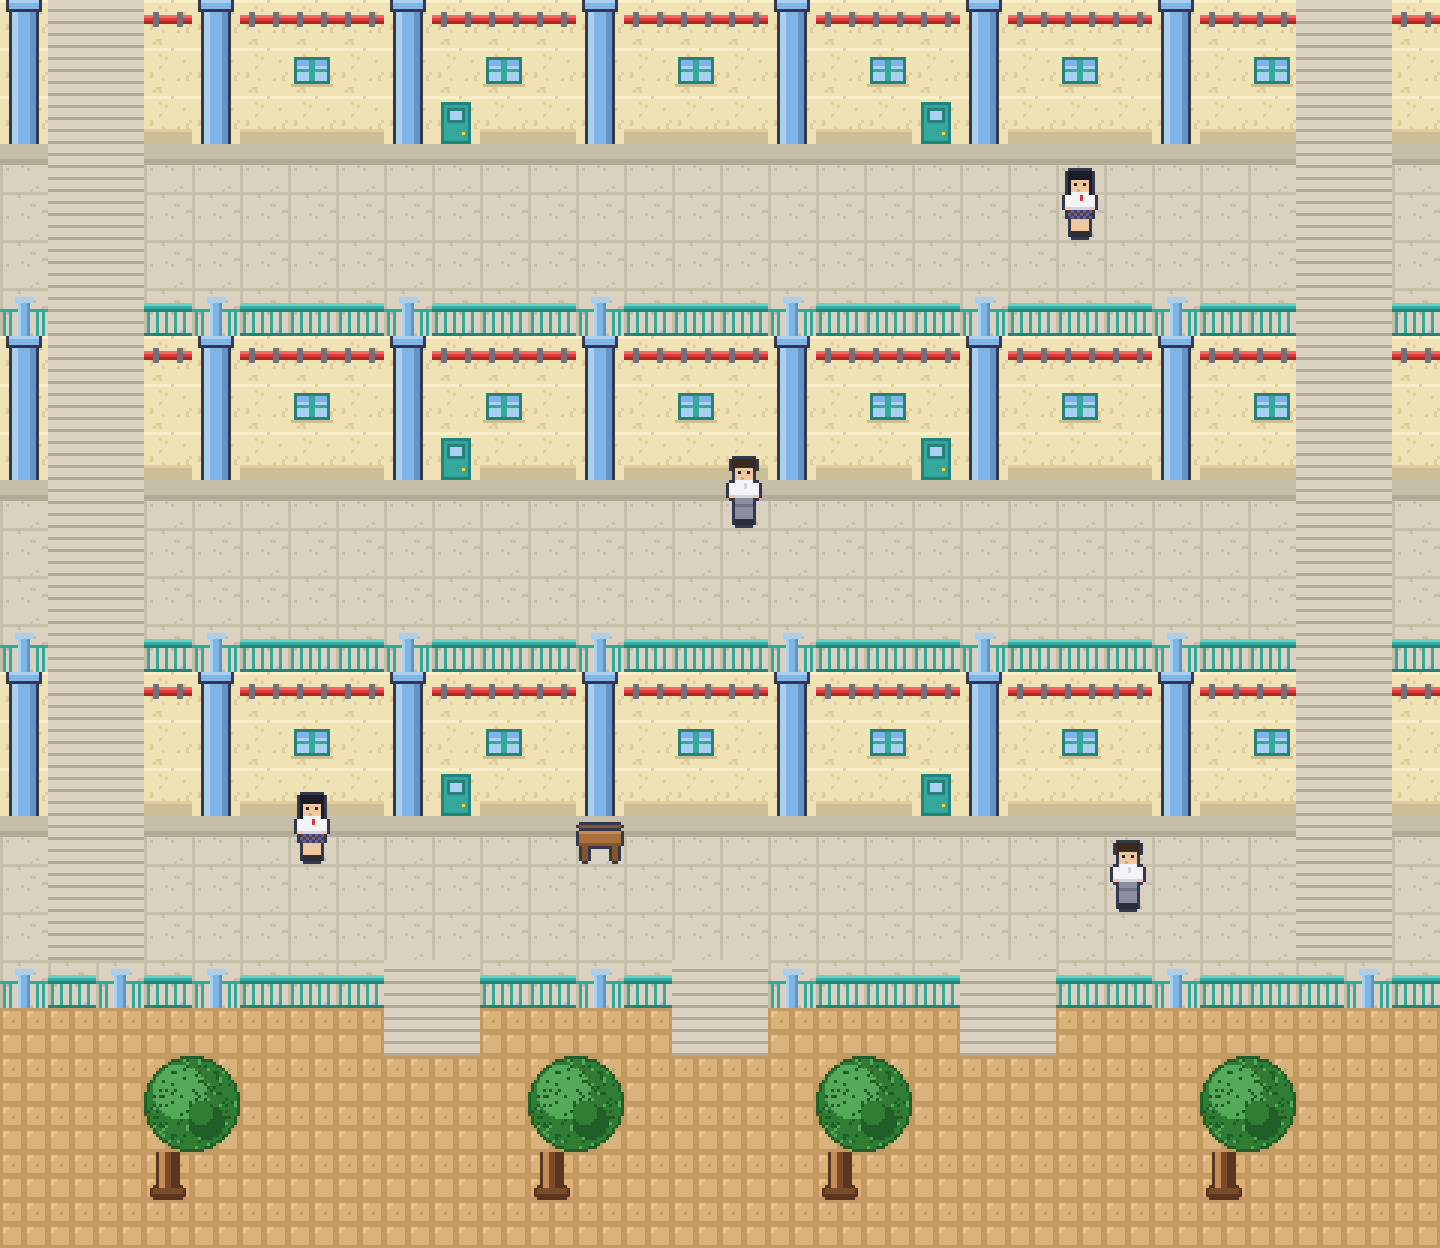
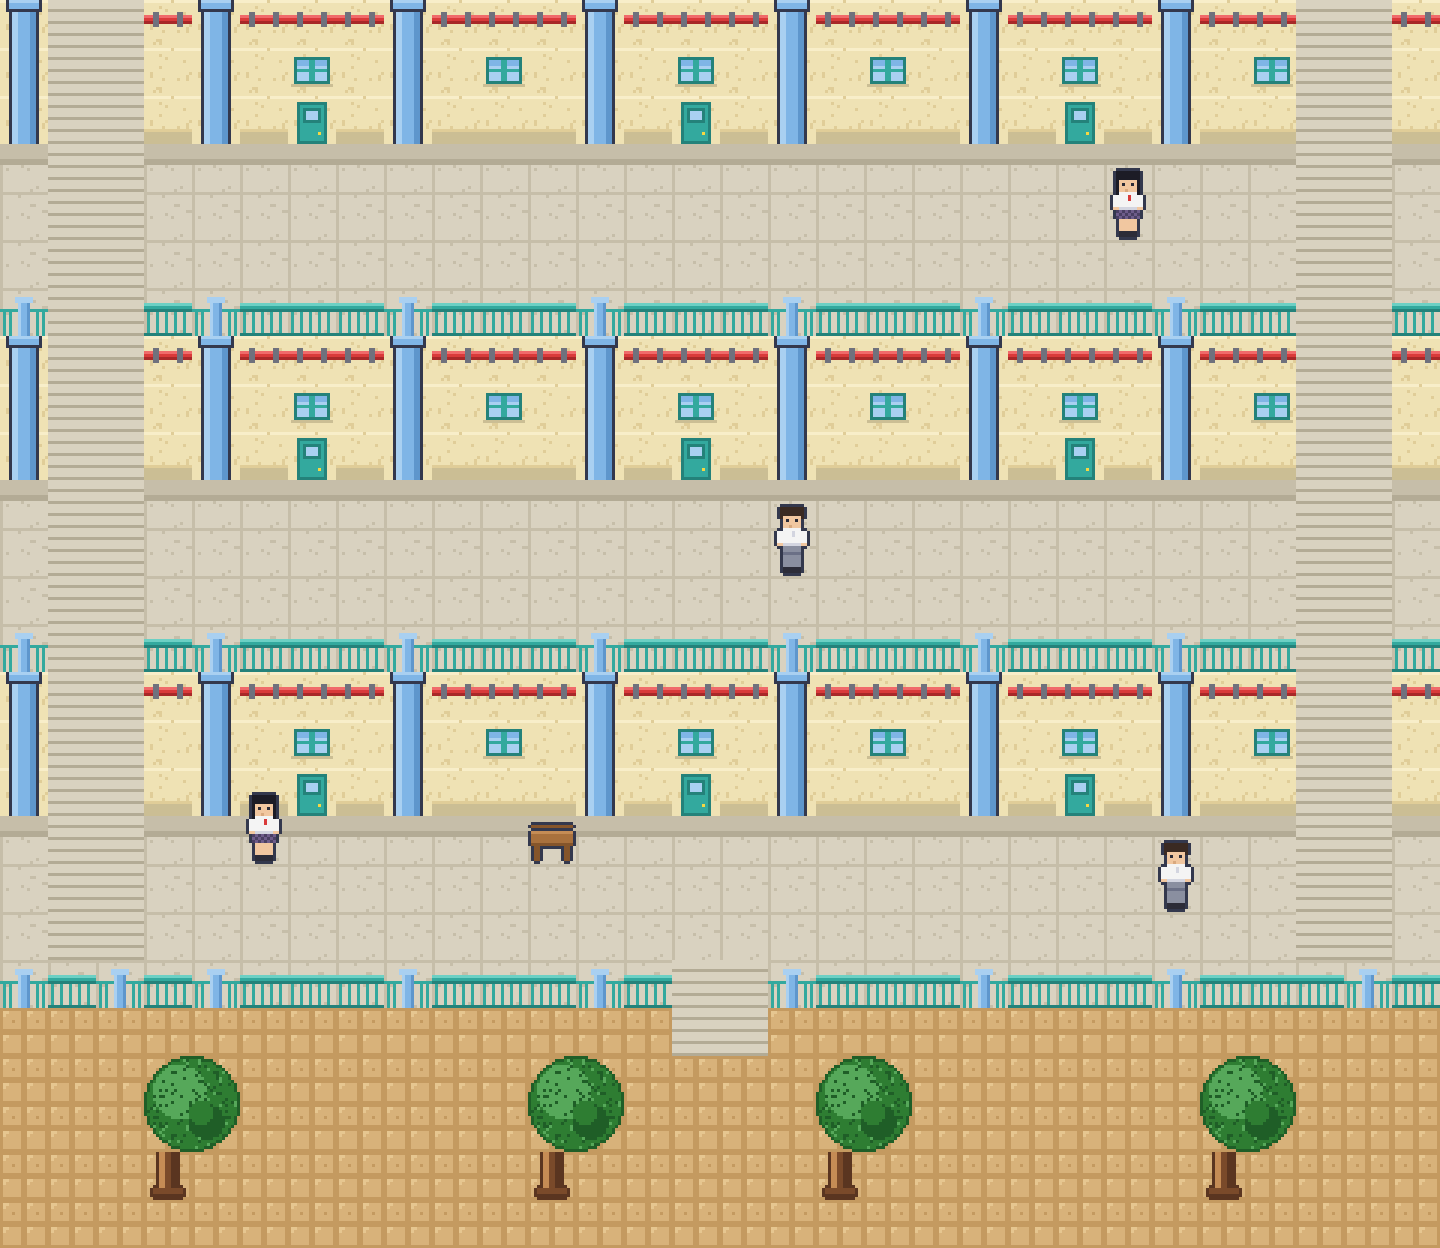
feat: thêm khu vực hanh-lang-lop-10 (3 tầng, 10C1–10C9), 2 cầu thang nam vào lớp 10; hành lang 12 chỉ còn cửa bắc, lớp 11B1–11B6; cập nhật spec, vision, dữ liệu

diff --git a/tools/gen-maps.ts b/tools/gen-maps.ts
@@ -171,8 +171,8 @@ function sanChinh(): MapBuilder {
 
   m.exit("to-cong-truong", 14, 21, 2, 1);
   m.exit("to-hanh-lang-bac", 14, 5, 2, 1);
-  m.exit("to-hanh-lang-nam-trai", 8, 17, 2, 1);
-  m.exit("to-hanh-lang-nam-phai", 20, 17, 2, 1);
+  m.exit("to-hanh-lang-10-trai", 8, 17, 2, 1);
+  m.exit("to-hanh-lang-10-phai", 20, 17, 2, 1);
   m.exit("to-san-the-chat", 0, 12, 1, 2);
 
   m.interact({ name: "khau-hieu", tx: 12, ty: 6, tw: 6, th: 1, kind: "text", text: "RÈN ĐỨC – LUYỆN TÀI" });
@@ -182,24 +182,27 @@ function sanChinh(): MapBuilder {
   return m;
 }
 
-// ---------- hanh-lang-lop-12 (30×26 ô) ----------
-// Một khu vực gồm 3 dải hành lang xếp chồng: tầng 3 (trên, lớp 11), tầng 2 (giữa, lớp 11),
-// tầng 1 (dưới, trệt, LỚP 12). Cầu thang ở hai đầu (x=1..2 và x=27..28) nối các tầng;
-// đi bộ để đổi tầng. Ba lối từ sân chính vào tầng 1; lối lên sân thượng ở đầu trên cầu thang phải.
-function hanhLang(): MapBuilder {
+// ---------- dãy hành lang 3 tầng (30×26 ô): hanh-lang-lop-12 và hanh-lang-lop-10 ----------
+// Một khu vực gồm 3 dải hành lang xếp chồng (tầng 3 trên, tầng 2 giữa, tầng 1 dưới/trệt), mỗi tầng 3 lớp.
+// Cầu thang ở hai đầu (x=1..2 và x=27..28) nối các tầng; đi bộ để đổi tầng.
+// Lối từ sân chính (gaps) vào tầng 1; lối lên sân thượng (nếu có) ở đầu trên cầu thang phải.
+interface HallOptions {
+  /** Từ tầng 3 (trên) xuống tầng 1 (dưới). */
+  floors: { label: string; classes: string[] }[];
+  /** Lối xuống sân chính ở tầng 1: x của ô trái, id exit. */
+  gaps: { x: number; exit: string }[];
+  rooftopExit: boolean;
+  stairsText: string;
+}
+function hall(o: HallOptions): MapBuilder {
   const m = new MapBuilder(30, 26);
   const W = 30;
-  const FLOORS = [
-    { y: 0, label: "Tầng 3", cls: ["11A1", "11A2"] },
-    { y: 7, label: "Tầng 2", cls: ["11B1", "11B2"] },
-    { y: 14, label: "Tầng 1", cls: ["12A1", "12A2"] },
-  ];
   const shaft = (x: number) => x === 1 || x === 2 || x === 27 || x === 28;
   m.fill("ground", 0, 21, W, 5, "paving_brown"); // sân nhìn từ tầng trệt
   m.solid(0, 0, W, 26);
 
-  for (const f of FLOORS) {
-    const y0 = f.y;
+  o.floors.forEach((f, fi) => {
+    const y0 = fi * 7;
     m.fill("ground", 0, y0, W, 3, "wall_cream");
     m.fill("ground", 0, y0 + 3, W, 4, "floor_corridor");
     m.fill("ground", 0, y0 + 3, W, 1, "floor_corridor_shadow");
@@ -216,10 +219,9 @@ function hanhLang(): MapBuilder {
     }
     m.open(1, y0 + 3, 28, 3); // hành lang đi được
 
-    // hai lớp mỗi tầng
-    const doorX = [9, 19];
-    f.cls.forEach((c, i) => {
-      const dx = doorX[i];
+    // 3 lớp mỗi tầng
+    f.classes.forEach((c, i) => {
+      const dx = [6, 14, 22][i];
       m.set("walls", dx, y0 + 2, "door_teal");
       m.interact({
         name: `lop-${c.toLowerCase()}`,
@@ -231,10 +233,12 @@ function hanhLang(): MapBuilder {
         text: `${f.label} – Lớp ${c}. Cửa còn hé mở, bên trong nghe tiếng quạt trần quay đều.`,
       });
     });
-    m.interact({ name: `nhan-tang-${y0}`, tx: 3, ty: y0 + 3, tw: 3, th: 3, kind: "text", text: `${f.label} – dãy lớp ${f.label === "Tầng 1" ? "12" : "11"}.` });
-  }
+    const first = f.classes[0];
+    const last = f.classes[f.classes.length - 1];
+    m.interact({ name: `nhan-tang-${y0}`, tx: 3, ty: y0 + 3, tw: 3, th: 3, kind: "text", text: `${f.label} – các lớp ${first} đến ${last}.` });
+  });
 
-  // cầu thang hai đầu: cột x=1..2 và x=27..28 đi được từ tầng 3 xuống tầng 1
+  // cầu thang hai đầu: đi được từ tầng 3 xuống tầng 1
   for (const sx of [1, 2, 27, 28]) {
     for (let y = 0; y <= 19; y++) {
       m.set("walls", sx, y, "stairs");
@@ -243,13 +247,14 @@ function hanhLang(): MapBuilder {
     m.set("walls", sx, 20, sx % 2 === 0 ? "railing_post" : "railing_teal");
     m.open(sx, 0, 1, 20);
   }
-  m.interact({ name: "cau-thang-trai", tx: 0, ty: 3, tw: 4, th: 17, kind: "text", text: "Cầu thang lên xuống các tầng. Tầng trệt là lớp 12, hai tầng trên là lớp 11." });
+  m.interact({ name: "cau-thang-trai", tx: 0, ty: 3, tw: 4, th: 17, kind: "text", text: o.stairsText });
 
-  // ba lối xuống sân chính ở tầng 1 (x=8, 14, 20): cầu thang qua hàng lan can
-  for (const gx of [8, 14, 20]) {
-    m.fill("walls", gx, 20, 2, 1, "stairs").fill("ground", gx, 20, 2, 1, "floor_corridor");
-    m.fill("walls", gx, 21, 2, 1, "stairs");
-    m.open(gx, 20, 2, 2);
+  // lối xuống sân chính ở tầng 1: cầu thang qua hàng lan can
+  for (const g of o.gaps) {
+    m.fill("walls", g.x, 20, 2, 1, "stairs").fill("ground", g.x, 20, 2, 1, "floor_corridor");
+    m.fill("walls", g.x, 21, 2, 1, "stairs");
+    m.open(g.x, 20, 2, 2);
+    m.exit(g.exit, g.x, 21, 2, 1);
   }
   // sân bên dưới: cây
   for (const cx of [3, 11, 17, 25]) {
@@ -258,20 +263,45 @@ function hanhLang(): MapBuilder {
     m.set("walls", cx, 24, "tree_trunk");
   }
 
-  // ghế + học sinh (tầng 1 và tầng 2)
-  m.set("walls", 12, 17, "bench").solid(12, 17);
-  m.interact({ name: "bang-ghe", tx: 11, ty: 16, tw: 3, th: 3, kind: "activity", label: "Ngồi nghỉ", text: "Bạn ngồi xuống ghế hành lang tầng trệt, nghe tiếng trống xa xa.", cost: 1 });
-  m.sprite("student_girl", 6 * 16, 17 * 16 - 8).solid(6, 17);
-  m.sprite("student_boy", 23 * 16, 18 * 16 - 8).solid(23, 18);
-  m.sprite("student_boy", 15 * 16, 10 * 16 - 8).solid(15, 10);
-  m.sprite("student_girl", 22 * 16, 4 * 16 - 8).solid(22, 4);
+  // ghế + học sinh
+  m.set("walls", 11, 17, "bench").solid(11, 17);
+  m.interact({ name: "bang-ghe", tx: 10, ty: 16, tw: 3, th: 3, kind: "activity", label: "Ngồi nghỉ", text: "Bạn ngồi xuống ghế hành lang tầng trệt, nghe tiếng trống xa xa.", cost: 1 });
+  m.sprite("student_girl", 5 * 16, 17 * 16 - 8).solid(5, 17);
+  m.sprite("student_boy", 24 * 16, 18 * 16 - 8).solid(24, 18);
+  m.sprite("student_boy", 16 * 16, 11 * 16 - 8).solid(16, 11);
+  m.sprite("student_girl", 23 * 16, 4 * 16 - 8).solid(23, 4);
 
-  // lối ra
-  m.exit("to-san-chinh-nam-trai", 8, 21, 2, 1);
-  m.exit("to-san-chinh-bac", 14, 21, 2, 1);
-  m.exit("to-san-chinh-nam-phai", 20, 21, 2, 1);
-  m.exit("to-san-thuong", 27, 0, 2, 1);
+  if (o.rooftopExit) m.exit("to-san-thuong", 27, 0, 2, 1);
   return m;
+}
+
+function hanhLang12(): MapBuilder {
+  return hall({
+    floors: [
+      { label: "Tầng 3", classes: ["11B4", "11B5", "11B6"] },
+      { label: "Tầng 2", classes: ["11B1", "11B2", "11B3"] },
+      { label: "Tầng 1", classes: ["12A1", "12A2", "12A3"] },
+    ],
+    gaps: [{ x: 14, exit: "to-san-chinh-bac" }],
+    rooftopExit: true,
+    stairsText: "Cầu thang lên xuống các tầng. Tầng trệt là lớp 12, hai tầng trên là lớp 11.",
+  });
+}
+
+function hanhLang10(): MapBuilder {
+  return hall({
+    floors: [
+      { label: "Tầng 3", classes: ["10C7", "10C8", "10C9"] },
+      { label: "Tầng 2", classes: ["10C4", "10C5", "10C6"] },
+      { label: "Tầng 1", classes: ["10C1", "10C2", "10C3"] },
+    ],
+    gaps: [
+      { x: 8, exit: "to-san-chinh-nam-trai" },
+      { x: 20, exit: "to-san-chinh-nam-phai" },
+    ],
+    rooftopExit: false,
+    stairsText: "Cầu thang lên xuống các tầng của khu lầu phía nam, toàn lớp 10.",
+  });
 }
 
 // ---------- san-the-chat (26×14 ô) ----------
@@ -351,7 +381,8 @@ function sanThuong(): MapBuilder {
 const maps: Record<string, MapBuilder> = {
   "cong-truong": congTruong(),
   "san-chinh": sanChinh(),
-  "hanh-lang-lop-12": hanhLang(),
+  "hanh-lang-lop-12": hanhLang12(),
+  "hanh-lang-lop-10": hanhLang10(),
   "san-the-chat": sanTheChat(),
   "san-thuong": sanThuong(),
 };

diff --git a/tests/areas.test.ts b/tests/areas.test.ts
@@ -6,12 +6,13 @@ import { validateAreas } from "../src/data/loader";
 const real = (): any => structuredClone(areasJson);
 
 describe("areas.json", () => {
-  it("dữ liệu thật hợp lệ và có 5 khu vực, sân thượng khóa", () => {
+  it("dữ liệu thật hợp lệ và có 6 khu vực, sân thượng khóa", () => {
     const data = validateAreas(real(), { fileExists: () => true });
     expect(data.areas.map((a) => a.id)).toEqual([
       "cong-truong",
       "san-chinh",
       "hanh-lang-lop-12",
+      "hanh-lang-lop-10",
       "san-the-chat",
       "san-thuong",
     ]);

diff --git a/src/core/state.ts b/src/core/state.ts
@@ -24,6 +24,7 @@ export function createInitialState(): GameState {
       "cong-truong": false,
       "san-chinh": false,
       "hanh-lang-lop-12": false,
+      "hanh-lang-lop-10": false,
       "san-the-chat": false,
       "san-thuong": true,
     },

diff --git a/docs/features/khung-game-va-ban-do/spec.md b/docs/features/khung-game-va-ban-do/spec.md
@@ -5,7 +5,7 @@
 - Căn cứ: docs/vision/vision.md, ADR 001 (Phaser 3 + TS + Vite, tile 16×16), ADR 002 (dữ liệu JSON + zod), ADR 003 (lưu game localStorage), docs/product/art-reference.md
 
 ## Goal
-Dựng "bộ khung chơi được" của Hồi Trống Cuối: nhân vật đi lại trong 5 khu vực trường Trần Phú (pixel art 16×16), chuyển khu vực, và chạy vòng lặp thời gian ngày/khoảng. Chạy trên trình duyệt máy tính và điện thoại. Đây là nền cho mọi feature sau (hội thoại, quan hệ, lưu bút, mini-game, phiên đêm).
+Dựng "bộ khung chơi được" của Hồi Trống Cuối: nhân vật đi lại trong 6 khu vực trường Trần Phú (pixel art 16×16), chuyển khu vực, và chạy vòng lặp thời gian ngày/khoảng. Chạy trên trình duyệt máy tính và điện thoại. Đây là nền cho mọi feature sau (hội thoại, quan hệ, lưu bút, mini-game, phiên đêm).
 
 ## Business Context
 Bản thử nghiệm 30–45 phút cần chứng minh phần khám phá và không khí hoài niệm hấp dẫn. Người chơi chưa có gì để tương tác sâu ở feature này; mục tiêu là cảm giác "đi trong trường cũ" và cảm giác thời gian giới hạn. Chưa có asset đồ họa nào, nên feature này gồm cả bộ tile và sprite khởi đầu.
@@ -35,23 +35,25 @@ Bản thử nghiệm 30–45 phút cần chứng minh phần khám phá và khô
 - FR2.6 Camera bám theo nhân vật; khu vực nhỏ hơn màn hình thì căn giữa.
 
 ### FR3. Bản đồ và khu vực
-- FR3.1 5 khu vực MVP, mỗi khu là một tilemap Tiled (`.tmj`, tile 16×16):
+- FR3.1 6 khu vực MVP, mỗi khu là một tilemap Tiled (`.tmj`, tile 16×16):
   1. `cong-truong` — cổng trường, xe buýt 67, xe kem, xe cháo lòng
   2. `san-chinh` — sân giữa, cây cổ thụ, lối vào nhà chính, khẩu hiệu "RÈN ĐỨC – LUYỆN TÀI"
-  3. `hanh-lang-lop-12` — dãy hành lang 3 tầng (tầng trệt: lớp 12; tầng 2 và 3: lớp 11), xem FR3.8
-  4. `san-the-chat` — sân xanh dương, rổ bóng rổ
-  5. `san-thuong` — sân thượng/dãy cũ; mặc định **khóa** (bị khóa thể hiện bằng cờ trạng thái, mở ở feature khác)
+  3. `hanh-lang-lop-12` — dãy hành lang 3 tầng phía bắc, mỗi tầng 3 lớp (tầng 1 trệt: lớp 12; tầng 2: 11B1–11B3; tầng 3: 11B4–11B6), xem FR3.8
+  4. `hanh-lang-lop-10` — dãy hành lang 3 tầng phía nam, mỗi tầng 3 lớp, tổng cộng 10C1–10C9 (tầng 1: 10C1–10C3; tầng 2: 10C4–10C6; tầng 3: 10C7–10C9), xem FR3.8
+  5. `san-the-chat` — sân xanh dương, rổ bóng rổ
+  6. `san-thuong` — sân thượng/dãy cũ; mặc định **khóa** (bị khóa thể hiện bằng cờ trạng thái, mở ở feature khác)
 - FR3.2 Mỗi bản đồ có các lớp: nền, vật thể/tường (va chạm), phủ trên đầu, và lớp đối tượng gồm: điểm xuất hiện, lối chuyển khu vực (`exit`), điểm tương tác (`interact`).
 - FR3.3 Lối `exit` khai báo khu vực đích và điểm xuất hiện đích; đi vào là chuyển khu vực, có hiệu ứng mờ dần ngắn (≤ 0,5 s).
 - FR3.4 Khi vào khu vực, hiện tên khu vực (tiếng Việt) vài giây.
 - FR3.5 Khu vực bị khóa: đi vào lối exit hiện thông báo "Bị khóa", không chuyển cảnh. Trạng thái khóa là dữ liệu, có thể mở bằng cờ.
 - FR3.6 Đồ thị nối khu vực (cập nhật 2026-09-30):
   - cổng trường ↔ sân chính (cổng chính ở giữa phía nam sân chính, đi từ cổng lên phía bắc là vào sân).
-  - sân chính ↔ hành lang lớp 12 bằng **3 lối**, đều dẫn vào **tầng trệt**: cửa chính phía bắc và **2 cầu thang phía nam** (hai bên cổng chính).
+  - sân chính ↔ **hành lang lớp 12** bằng **1 lối**: cửa chính phía bắc, vào tầng trệt.
+  - sân chính ↔ **hành lang lớp 10** bằng **2 lối**: hai cầu thang phía nam (hai bên cổng chính), đều vào tầng trệt của dãy lớp 10.
   - sân chính ↔ sân thể chất: sân thể chất nằm ở **phía tây (bên trái)** sân chính.
-  - hành lang lớp 12 ↔ sân thượng (khóa), nối từ **tầng cao nhất** của dãy hành lang.
+  - hành lang lớp 12 ↔ sân thượng (khóa), nối từ **tầng cao nhất** của dãy hành lang lớp 12.
 - FR3.7 Dữ liệu khu vực (tên, file map, exit, điều kiện khóa) khai báo trong `data/areas.json`, kiểm tra bằng zod khi nạp (ADR 002). Sai dữ liệu → báo lỗi rõ ràng, chỉ ra file và trường sai.
-- FR3.8 Hành lang lớp 12 là **một khu vực** gồm **3 dải hành lang ngang xếp chồng** (tầng 3 trên cùng, tầng 2, tầng 1 dưới cùng). Tầng 1 (trệt) là tầng **lớp 12**; tầng 2 và tầng 3 là **lớp 11**. Các tầng nối nhau bằng **cầu thang ở hai đầu** dãy; đổi tầng bằng cách đi bộ trong cùng bản đồ, không chuyển cảnh. Ba lối từ sân chính (FR3.6) đều dẫn vào tầng 1; lối lên sân thượng nằm ở tầng cao nhất.
+- FR3.8 Mỗi dãy hành lang (lớp 12 và lớp 10) là **một khu vực** gồm **3 dải hành lang ngang xếp chồng** (tầng 3 trên cùng, tầng 2, tầng 1 dưới cùng), mỗi tầng **3 lớp**. Các tầng nối nhau bằng **cầu thang ở hai đầu** dãy; đổi tầng bằng cách đi bộ trong cùng bản đồ, không chuyển cảnh. Lối từ sân chính (FR3.6) đều dẫn vào tầng 1; lối lên sân thượng nằm ở tầng cao nhất của dãy lớp 12.
 
 ### FR4. Thời gian (ngày và khoảng)
 - FR4.1 Một ngày có 4 khoảng: Trước giờ học, Trong giờ học, Giờ ra chơi, Sau giờ học.
@@ -108,7 +110,7 @@ Game một người chơi, không tài khoản, không phân quyền. Toàn bộ
 - AC1. `npm run dev` mở game; tiêu đề hiện đúng tên "Hồi Trống Cuối" và dấu tiếng Việt đúng.
 - AC2. Trên máy tính, WASD/mũi tên đưa nhân vật đi 4 hướng, không xuyên tường; E/Space tương tác được với điểm tương tác đứng gần.
 - AC3. Trên điện thoại (hoặc giả lập cảm ứng), D-pad ảo và nút Tương tác cho kết quả tương tự AC2; giữ D-pad và bấm Tương tác cùng lúc vẫn hoạt động.
-- AC4. Từ cổng trường đi được tới sân chính, hành lang lớp 12, sân thể chất; từ đó đi ngược lại được. Cả 5 khu vực tồn tại; sân thượng báo "Bị khóa" khi thử vào.
+- AC4. Từ cổng trường đi được tới sân chính, hành lang lớp 12, sân thể chất; từ đó đi ngược lại được. Cả 6 khu vực tồn tại (đi được tới hành lang lớp 10 qua 2 cầu thang phía nam sân chính); sân thượng báo "Bị khóa" khi thử vào.
 - AC5. Đi lại giữa các khu vực không đổi khoảng trong HUD.
 - AC6. "Ngồi nghỉ" hoặc "Nghỉ/Chờ" đổi khoảng đúng thứ tự: Trước giờ học → Trong giờ học → Giờ ra chơi → Sau giờ học → tổng kết ngày → ngày sau, khoảng 0, ở cổng trường; thứ trong tuần cập nhật đúng.
 - AC7. Sau ngày cuối cấu hình, game phát sự kiện hết thời gian và hiện màn hình giữ chỗ, không lỗi.
@@ -139,4 +141,6 @@ Game một người chơi, không tài khoản, không phân quyền. Toàn bộ
 Người dùng yêu cầu chỉnh bố cục trường cho sát thực tế, đã cập nhật FR3.1, FR3.6, FR3.8:
 - Sân thể chất chuyển sang phía tây (trái) sân chính.
 - Sân chính có thêm 2 cầu thang ở phía nam (hai bên cổng chính) để vào hành lang lớp 12, tổng cộng 3 lối vào hành lang (đều vào tầng trệt).
-- Hành lang lớp 12 có 3 tầng: tầng trệt là lớp 12, hai tầng trên là lớp 11; là một khu vực có 3 dải hành lang xếp chồng nối bằng cầu thang (không tăng số khu vực).
+- Hành lang lớp 12 có 3 tầng: tầng trệt là lớp 12, hai tầng trên là lớp 11; là một khu vực có 3 dải hành lang xếp chồng nối bằng cầu thang.
+
+Thay đổi tiếp (cùng ngày): tầng 2 lớp 11B1–11B3, tầng 3 lớp 11B4–11B6. Hai cầu thang phía nam sân chính **không** vào hành lang lớp 12 mà vào **khu vực mới "hành lang lớp 10"** (khu lầu phía nam, 3 lầu, mỗi lầu 3 lớp, từ 10C1 đến 10C9). **Phạm vi MVP tăng từ 5 lên 6 khu vực** theo quyết định của người dùng.

diff --git a/docs/product/art-reference.md b/docs/product/art-reference.md
@@ -33,12 +33,13 @@
 - Đồng phục: áo trắng, nữ váy caro và cà vạt, nam quần xám.
 - Ngoài trường: xe buýt 67, xe kem, xe cháo lòng, xe máy.
 
-## Ánh xạ 5 khu vực MVP (người dùng đã duyệt 2026-09-30)
+## Ánh xạ khu vực MVP (người dùng đã duyệt 2026-09-30, cập nhật: 6 khu vực)
 1. Cổng trường và hàng quán (ref-01, 03)
 2. Sân chính (ref-09, 06)
-3. Hành lang và lớp 12 (ref-05, 10)
-4. Sân thể chất (ref-07, 08)
-5. Sân thượng hoặc dãy phòng cũ bị khóa (dùng cho phiên ban đêm)
+3. Hành lang lớp 12, dãy phía bắc, 3 tầng (ref-05, 10)
+4. Hành lang lớp 10, dãy phía nam, 3 tầng (thêm 2026-09-30)
+5. Sân thể chất (ref-07, 08)
+6. Sân thượng hoặc dãy phòng cũ bị khóa (dùng cho phiên ban đêm)
 
 ## Kỹ thuật đồ họa
 - Đã chốt: tile 16×16 px, nhân vật khoảng 16×24 px (theo ADR 001).

diff --git a/docs/vision/vision.md b/docs/vision/vision.md
@@ -25,7 +25,7 @@ Một game pixel art hoài niệm về thời cấp ba. Nhân vật chính trở
 Địa điểm và chi tiết đặc trưng bám sát trường THPT Trần Phú. Xem các câu hỏi mở bên dưới.
 
 ## Phạm vi bản thử nghiệm (MVP, đã chọn: đúng như idea.md)
-1 tuần trong game · 5 khu vực · 6–8 NPC · 1 tuyến nhân vật chính · 3 mini-game · 1 phiên khám phá ban đêm · 2 kết thúc · chơi 30–45 phút.
+1 tuần trong game · 6 khu vực (thêm hành lang lớp 10 theo quyết định 2026-09-30) · 6–8 NPC · 1 tuyến nhân vật chính · 3 mini-game · 1 phiên khám phá ban đêm · 2 kết thúc · chơi 30–45 phút.
 
 ## Quyết định đã chốt (2026-09-30)
 - Nhân vật (bạn bè, giáo viên) là hư cấu hoàn toàn.

diff --git a/docs/features/khung-game-va-ban-do/tasks.md b/docs/features/khung-game-va-ban-do/tasks.md
@@ -135,4 +135,4 @@ Các nhóm độc lập, không chung file (dùng được subagent `dev` song s
 
 ## Tiến độ (cập nhật 2026-09-30)
 Xong: T1–T13 (font, asset, bản đồ đã được duyệt; T13 chuyển khu vực chờ duyệt). Còn: T14–T17.
-Ghi chú: T12 làm trước T10/T11 vì game kiểm tra đủ 5 file bản đồ khi khởi động.
+Ghi chú: T12 làm trước T10/T11 vì game kiểm tra đủ file bản đồ khi khởi động. Sau khi duyệt, bố cục đổi (2026-09-30): thêm khu vực hanh-lang-lop-10 (MVP thành 6 khu vực), xem spec FR3.1, FR3.6, FR3.8.
